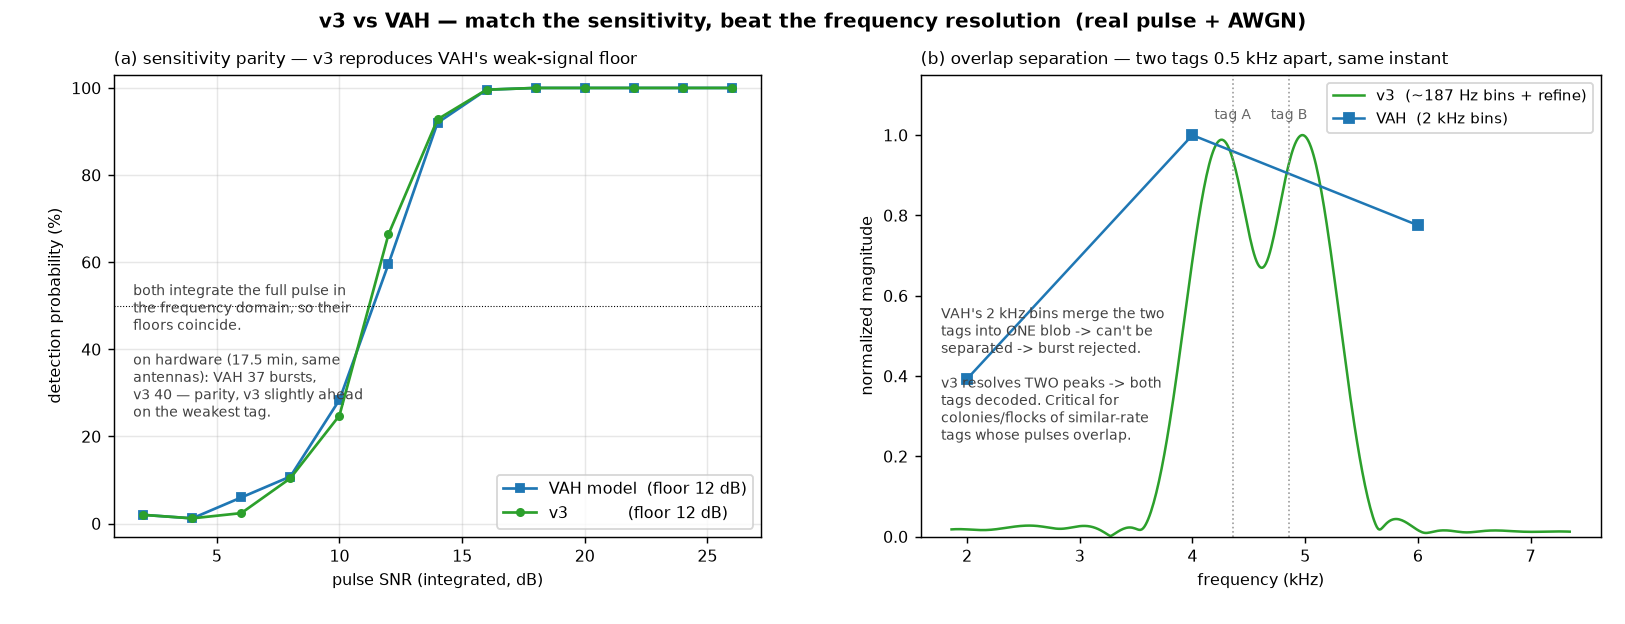
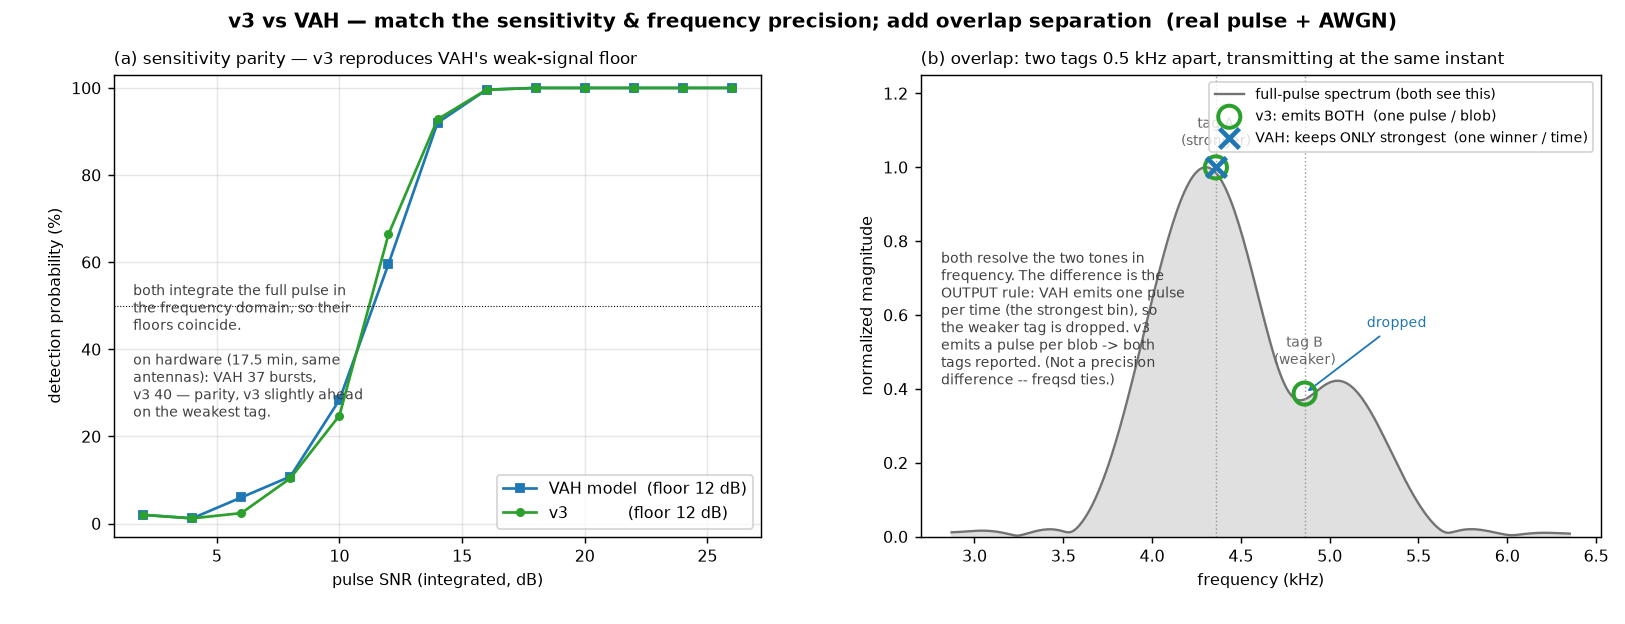
Fix frequency precision in description of VAH

Changed region(s): [[0.1231, 0.0, 0.9846, 0.9135], [0.8615, 0.3349, 0.8923, 0.3654], [0.5231, 0.7308, 0.5538, 0.7612]]

diff --git a/make_vah_figure.py b/make_vah_figure.py
@@ -96,18 +96,19 @@ fl = lambda p: SNRS[np.argmax(p >= 50)] if (p >= 50).any() else np.nan
 print(f"floors  v3={fl(Pd3)} dB  VAH={fl(Pdv)} dB")
 
 # ---------------- overlap: two tags, different freq offset, overlapping in time
-DF = 500.0                                        # 0.5 kHz apart -> within VAH's 2 kHz bin
-ov = noise(PL) * 0.0
-ov = ov.astype(complex)
-add_pulse(ov, 0, 26, 0.0)                          # tag A at template freq
-add_pulse(ov, 0, 26, DF)                           # tag B, +0.5 kHz, same time (overlap)
+DF = 500.0                                        # 0.5 kHz offset between the two tags
+ov = np.zeros(PL, dtype=complex)
+add_pulse(ov, 0, 28, 0.0)                          # tag A (stronger), template freq
+add_pulse(ov, 0, 22, DF)                           # tag B (weaker, +0.5 kHz), SAME time
 ov = ov + noise(PL) * 0.02
-# VAH-resolution view: native 24-sample FFT magnitude (interpolated for a smooth curve)
-fv = np.fft.fftshift(np.fft.fftfreq(NFV, 1 / SR))
-Sv = np.fft.fftshift(np.abs(np.fft.fft(ov[:WINV] * np.hanning(WINV), NFV)))
-# v3-resolution view: full-pulse zero-padded FFT
+# both detectors estimate frequency from a full-pulse FFT; this high-res spectrum is
+# what each one's fine FFT sees -- the two tags ARE resolvable in frequency.
 f3 = np.fft.fftshift(np.fft.fftfreq(4096, 1 / SR))
-S3 = np.fft.fftshift(np.abs(np.fft.fft(ov * np.hanning(PL), 4096)))
+S3 = np.fft.fftshift(np.abs(np.fft.fft(ov * np.hanning(PL), 4096))); S3 /= S3.max()
+fA, fB = F0, F0 + DF
+def _peak(f):
+    i = int(np.argmin(np.abs(f3 - f))); return float(S3[max(0, i - 4):i + 5].max())
+hA, hB = _peak(fA), _peak(fB)
 
 # ---------------- plot
 plt.rcParams.update({"font.size": 9})
@@ -135,30 +136,36 @@ axA.text(0.03, 0.55,
          transform=axA.transAxes, va="top", fontsize=8, color="0.25")
 
 axB = fig.add_subplot(gs[0, 1])
-sel = (f3 > F0 - 2500) & (f3 < F0 + 3000)
-axB.plot(f3[sel] / 1000, S3[sel] / S3[sel].max(), color=C3, lw=1.4,
-         label="v3  (~187 Hz bins + refine)")
-selv = (fv > F0 - 2500) & (fv < F0 + 3000)
-axB.plot(fv[selv] / 1000, Sv[selv] / Sv[selv].max(), "-s", ms=5, color=CV, lw=1.4,
-         label="VAH  (2 kHz bins)")
-for fpk, lab in [(F0, "tag A"), (F0 + DF, "tag B")]:
-    axB.axvline(fpk / 1000, color="0.6", ls=":", lw=0.9)
-    axB.text(fpk / 1000, 1.04, lab, ha="center", fontsize=8, color="0.4")
+sel = (f3 > F0 - 1500) & (f3 < F0 + 2000)
+axB.fill_between(f3[sel] / 1000, S3[sel], color="0.88")
+axB.plot(f3[sel] / 1000, S3[sel], color="0.45", lw=1.3, label="full-pulse spectrum (both see this)")
+axB.axvline(fA / 1000, color="0.6", ls=":", lw=0.8); axB.axvline(fB / 1000, color="0.6", ls=":", lw=0.8)
+axB.text(fA / 1000, 1.06, "tag A\n(stronger)", ha="center", fontsize=8, color="0.4")
+axB.text(fB / 1000, hB + 0.08, "tag B\n(weaker)", ha="center", fontsize=8, color="0.4")
+# v3 emits a pulse per blob -> BOTH tags
+axB.scatter([fA / 1000, fB / 1000], [hA, hB], s=150, facecolors="none",
+            edgecolors=C3, linewidths=2.2, zorder=5, label="v3: emits BOTH  (one pulse / blob)")
+# VAH keeps only the single strongest bin per time -> tag A only
+axB.scatter([fA / 1000], [hA], s=120, marker="x", color=CV, linewidths=2.6,
+            zorder=6, label="VAH: keeps ONLY strongest  (one winner / time)")
+axB.annotate("dropped", (fB / 1000, hB), (fB / 1000 + 0.35, hB + 0.18),
+             fontsize=8, color=CV, arrowprops=dict(arrowstyle="->", color=CV))
 axB.set_xlabel("frequency (kHz)"); axB.set_ylabel("normalized magnitude")
-axB.set_ylim(0, 1.15); axB.legend(loc="upper right", fontsize=8.5)
-axB.set_title(f"(b) overlap separation — two tags {DF/1000:.1f} kHz apart, same instant",
+axB.set_ylim(0, 1.25); axB.legend(loc="upper right", fontsize=8)
+axB.set_title(f"(b) overlap: two tags {DF/1000:.1f} kHz apart, transmitting at the same instant",
               fontsize=9.5, loc="left")
-axB.text(0.03, 0.5,
-         "VAH's 2 kHz bins merge the two\n"
-         "tags into ONE blob -> can't be\n"
-         "separated -> burst rejected.\n\n"
-         "v3 resolves TWO peaks -> both\n"
-         "tags decoded. Critical for\n"
-         "colonies/flocks of similar-rate\n"
-         "tags whose pulses overlap.",
+axB.text(0.03, 0.62,
+         "both resolve the two tones in\n"
+         "frequency. The difference is the\n"
+         "OUTPUT rule: VAH emits one pulse\n"
+         "per time (the strongest bin), so\n"
+         "the weaker tag is dropped. v3\n"
+         "emits a pulse per blob -> both\n"
+         "tags reported. (Not a precision\n"
+         "difference -- freqsd ties.)",
          transform=axB.transAxes, va="top", fontsize=8, color="0.25")
 
-fig.suptitle("v3 vs VAH — match the sensitivity, beat the frequency resolution  "
-             "(real pulse + AWGN)", fontsize=11, weight="bold")
+fig.suptitle("v3 vs VAH — match the sensitivity & frequency precision; add overlap "
+             "separation  (real pulse + AWGN)", fontsize=11, weight="bold")
 fig.savefig("v3_vs_vah.png", dpi=130)
 print("wrote v3_vs_vah.png")

diff --git a/PULSE_DETECTION.md b/PULSE_DETECTION.md
@@ -24,8 +24,10 @@ The bar for the new detector is therefore concrete:
 1. **Match or beat VAH's weak-signal sensitivity** (or researchers won't switch).
 2. **Separate overlapping tags.** In colonies/flocks, many tags share a similar
    burst rate, so their pulses frequently overlap in time. Their **frequency
-   offsets vary enough to tell them apart** — but VAH's coarse frequency resolution
-   **could not** separate them. The new detector should.
+   offsets vary enough to tell them apart** — but VAH **emits only one pulse per
+   time step** (the single strongest frequency bin), so two tags overlapping in
+   time collapse to one detection and the weaker is lost. The new detector should
+   report both.
 3. **Be robust to interference** (on-channel voice, electrical/switching noise)
    without drowning in false pulses.
 
@@ -41,20 +43,24 @@ then recounts the two earlier attempts (v1, v2) that didn't make the bar.
   pulses into a tag if the gaps match a known code **and their frequencies agree to
   within 0.1 kHz** (`FREQ_SLOP`).
 * **VAH** (C++) detects pulses by **per-frequency-bin, full-pulse power integration**
-  — excellent sensitivity (~5–6 dB floor), but **coarse 2 kHz frequency bins** that
-  can't separate nearby overlapping tags, and no interference handling. It also
+  and reports each pulse's frequency from a **full-pulse FFT + cubic interpolation**
+  (precise to a few Hz). Excellent sensitivity (~5–6 dB floor) and precise frequency
+  — but it **emits only the single strongest pulse per time step**, so it can't
+  report two tags that overlap in time, it has no interference handling, and it
   can't run inside GNU Radio.
 * **v3** (`detect_pulse_3.py`) uses the **same full-pulse, frequency-domain
-  principle** as a spectrogram, so it **matches VAH's sensitivity** — then improves
-  on it: **~187 Hz + sub-bin frequency** (separates overlapping tags), **flood
-  rejection** for interference, and it runs **inside the GNU Radio flow graph**
-  (supporting AirSpy HF+).
+  principle** as a spectrogram, so it **matches VAH's sensitivity and frequency
+  precision** — then adds: it **emits a pulse per spectral blob** (so overlapping
+  tags at different offsets are reported separately, where VAH keeps only the
+  strongest), **flood rejection** for interference, and it runs **inside the GNU
+  Radio flow graph** (supporting AirSpy HF+).
 * **v1** (amplitude threshold) and **v2** (rising-edge matched filter) were earlier
   attempts that came in **below** VAH; v3 came out on top.
 
-**Bottom line:** *match the sensitivity, beat the frequency resolution.* v3 detects
-the whole **tone** (like VAH) but resolves it finely enough to pull apart
-overlapping tags VAH would merge.
+**Bottom line:** *match the sensitivity and frequency precision; add overlap
+separation and flood handling.* v3 detects the whole **tone** like VAH, and because
+it reports every spectral blob it can pull apart simultaneous tags VAH reduces to
+one.
 
 ---
 
@@ -63,10 +69,12 @@ overlapping tags VAH would merge.
 ![v3 vs VAH](v3_vs_vah.png)
 
 *Generated by [`make_vah_figure.py`](make_vah_figure.py). A **real** Lotek pulse
-(extracted from a FunCube IQ recording) is re-inserted into white noise; VAH is
-reproduced as a Python model of its algorithm (24-sample FFT, per-bin pulse-length
-power integration) and compared to v3 on identical input. Thresholds are set to the
-same false-alarm rate.*
+(extracted from a FunCube IQ recording) is re-inserted into white noise; VAH's
+coarse detection is reproduced as a Python model of its algorithm (24-sample FFT,
+per-bin pulse-length power integration) and compared to v3 on identical input.
+Thresholds are set to the same false-alarm rate. (VAH's *reported* frequency comes
+from a separate full-pulse FFT + cubic interpolation, ~few-Hz precise — panel b is
+about which detections survive, not frequency accuracy.)*
 
 **(a) Sensitivity parity — the must-have.** Both detectors integrate the full pulse
 in the frequency domain, so their detection-vs-SNR curves coincide: a **50 %
@@ -81,20 +89,30 @@ On hardware (17.5 min, both fed the same antennas) this bears out:
 v3 edges VAH overall and is clearly better on the **weak tag-17** — full-pulse
 integration paying off exactly where it matters (faint/distant animals).
 
-**(b) Overlap separation — the improvement.** Two tags 0.5 kHz apart, transmitting
-at the same instant: VAH's **2 kHz bins merge them into one blob** → a single,
-blended frequency → the burst fails the `FREQ_SLOP` consistency check and is lost.
-v3's **~187 Hz bins (sub-bin refined) resolve two distinct peaks** → both tags
-decode. This is the capability colonies/flocks need.
+Frequency precision is a **tie**: VAH's reported frequency comes from its own
+full-pulse FFT + cubic interpolation (≈3 Hz within-burst on hardware), if anything a
+hair tighter than v3's ≈5–8 Hz. v3 does **not** beat VAH on single-tone precision —
+both are far inside the 0.1 kHz `FREQ_SLOP` gate.
 
-**Why v3 can do this and VAH can't** — same principle, different resolution:
+**(b) Overlap separation — the improvement.** The difference is in *detection*, not
+frequency precision. VAH's detection grid is the coarse 2 kHz FFT and it **outputs
+only the single strongest bin per time step** ("Output only the pulse with highest
+signal power"). So two tags overlapping in time — even at different offsets —
+collapse to **one** detection; the weaker tag is dropped. v3 thresholds a fine
+(~187 Hz) spectrogram and **emits a pulse for every blob**, so the two tags land in
+different bins and are **both** reported, each with its own sub-bin frequency. That's
+the capability colonies/flocks need.
+
+**Why v3 can do this and VAH can't** — same detection principle and frequency
+precision; the difference is one-winner-per-time vs one-pulse-per-blob:
 
 | aspect | VAH `FindPulseFDBatch` (C++) | v3 `detect_pulse_3.py` (Python STFT) |
 |---|---|---|
 | core principle | per-bin **full-pulse power integration** | per-bin **full-pulse power integration** |
-| transform | 24-sample FFT (~0.5 ms), boxcar over ~10 windows | one ~pulse-length (120-sample) windowed FFT per hop |
-| **freq resolution** | **~2 kHz bins** → cubic interp | **~187 Hz bins** → 4096-pt zero-pad + parabolic |
-| overlapping tags | **merge if < ~2 kHz apart** | **resolved to ~hundreds of Hz** |
+| detection grid | coarse 24-sample FFT (~2 kHz bins) | fine ~pulse-length FFT (~187 Hz bins) |
+| reported frequency | **full-pulse FFT + cubic interp (~few Hz)** | full-pulse FFT + parabolic interp (~few Hz) |
+| single-tone precision | ~3 Hz (on-device freqsd) | ~5–8 Hz — **comparable** |
+| simultaneous tags | **one winner per time → weaker tag lost** | **one pulse per blob → both reported** |
 | noise estimate | adjacent time noise windows | per-bin median over the buffer |
 | interference/floods | none — left to downstream | **window-level rejection + `F` interval logging** |
 | sensitivity floor | ~5–6 dB | ~6 dB (matched) |
@@ -113,9 +131,9 @@ and logs each interval as `F<port>,<start_ts>,<end_ts>,<n_dropped>`:
   bursts**, freqsd median 0.006 kHz, **0 of 1 132 bursts lost to a flood**, floods
   only 0.4 % of airtime.
 
-**Verdict:** v3 **matches VAH's sensitivity, beats its frequency resolution**
-(overlap separation), **adds flood robustness**, and runs in the GR pipeline that
-made all this necessary.
+**Verdict:** v3 **matches VAH's sensitivity and frequency precision**, **separates
+overlapping tags** VAH collapses to one (one pulse per blob vs one winner per time),
+**adds flood robustness**, and runs in the GR pipeline that made all this necessary.
 
 ---
 
@@ -179,13 +197,21 @@ characteristic gaps — e.g. **Tag 17** `[22.0, 97.5, 53.8]` ms, **Tag 732**
 a frequency within **`FREQ_SLOP` = 0.1 kHz** — which is why frequency accuracy *and*
 resolution matter.
 
-**VAH (`vamp-plugins/lotek/FindPulseFDBatch`)** in detail: a short 24-sample sliding
-FFT (0.5 ms, 50 % overlap, ~2 kHz bins); for each bin a `PulseFinder` runs a matched
-boxcar over **power** — a central "signal" segment one pulse-length long flanked by
-"noise" segments (5 pulse-lengths each side) — and flags a pulse when
-signal/noise > `min_pulse_SNR` (default 5 dB). Sub-bin frequency by cubic
-interpolation. This is **full-pulse frequency-domain integration**; v3 is the same
-idea as a spectrogram, with much finer bins.
+**VAH (`vamp-plugins/lotek/FindPulseFDBatch`)** in detail — note it runs **two**
+FFTs:
+* *Detection:* a short 24-sample sliding FFT (0.5 ms, 50 % overlap, ~2 kHz bins);
+  for each bin a `PulseFinder` runs a matched boxcar over **power** — a central
+  "signal" segment one pulse-length long flanked by "noise" segments (5 pulse-lengths
+  each side) — and flags a pulse when signal/noise > `min_pulse_SNR` (default 5 dB).
+  At each time step it then keeps **only the single strongest bin** ("Output only the
+  pulse with highest signal power"), so simultaneous tags collapse to one detection.
+* *Reported frequency:* a **separate full-pulse FFT** (`m_plan_fine`, 120 samples →
+  ~400 Hz bins) over the pulse window, with **cubic interpolation** across 4 bins for
+  sub-bin precision (~few Hz — the source of VAH's ~3 Hz on-device `freqsd`).
+
+So VAH is **full-pulse frequency-domain integration with precise interpolated
+frequency**; v3 is the same idea as a spectrogram, differing in that it keeps a
+detection **per blob** (not one winner per time) on a finer detection grid.
 
 ### v1 — `detect_pulse.py` : amplitude hysteresis
 Track the `|IQ|` envelope; declare a pulse when it rises above `rise_thresh`, ends
@@ -266,8 +292,8 @@ consistency.
 |---|---|---|---|---|
 | Detects | whole tone (freq-domain) | amplitude bump | rising edge (3–5 samp) | whole tone (~2.5 ms) |
 | Weak-signal floor | ~5–6 dB | high (threshold) | ~15–20 dB | ~6 dB (VAH-level) |
-| Frequency resolution | ~2 kHz bins (cubic) | none/coarse | 47 Hz bin (quantized) | ~187 Hz + sub-bin |
-| Separates overlapping tags | no (bins too coarse) | no | partial (subtraction) | **yes (fine bins)** |
+| Reported-frequency precision | ~3 Hz (full-pulse FFT + cubic) | none/coarse | 47 Hz bin (quantized) | ~5–8 Hz (full-pulse FFT + parabolic) |
+| Separates overlapping tags | no (one winner per time) | no | partial (subtraction) | **yes (one pulse per blob)** |
 | Flood handling | none | none | none | window-level reject + `F` log |
 | Runs in GR flow graph | no (ALSA host) | yes | yes | yes |
 | Burst yield | reference | (below) | below VAH | **≥ VAH** |
@@ -313,9 +339,10 @@ stay well under the threshold, so nothing is dropped. (And the relevant threshol
 can simply raise them.)
 
 Where moderate overlap *does* happen — a colony/flock of similar-burst-rate tags
-whose pulses occasionally coincide — v3's **fine frequency resolution is an
-advantage** (it separates the overlapping tags by offset, §"v3 vs VAH"), exactly the
-case VAH could not handle. The benchmark's pathology is *density*, not *overlap*.
+whose pulses occasionally coincide — v3's **one-pulse-per-blob detection is an
+advantage** (it reports each overlapping tag separately, where VAH keeps only the
+strongest; §"v3 vs VAH"), exactly the case VAH could not handle. The benchmark's
+pathology is *density*, not *overlap*.
 
 ## Tuning knobs (v3, in `Pulse_Detector.__init__`)
 